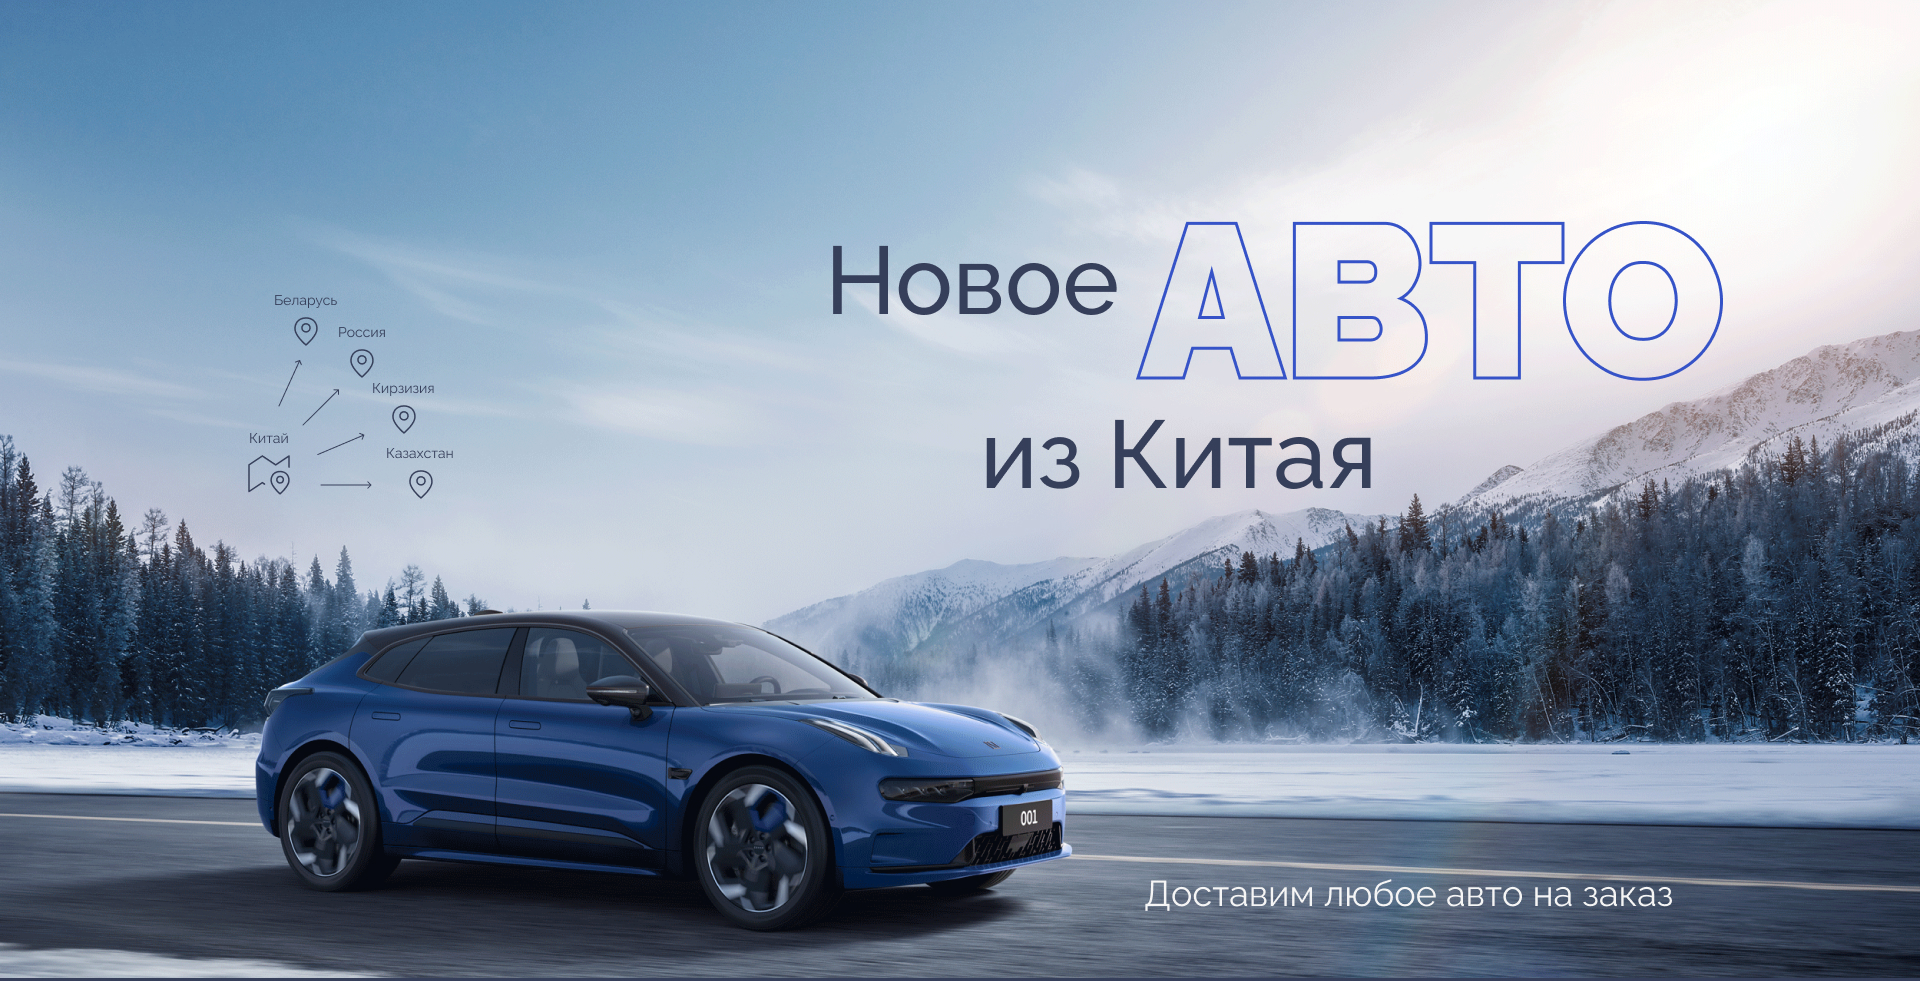
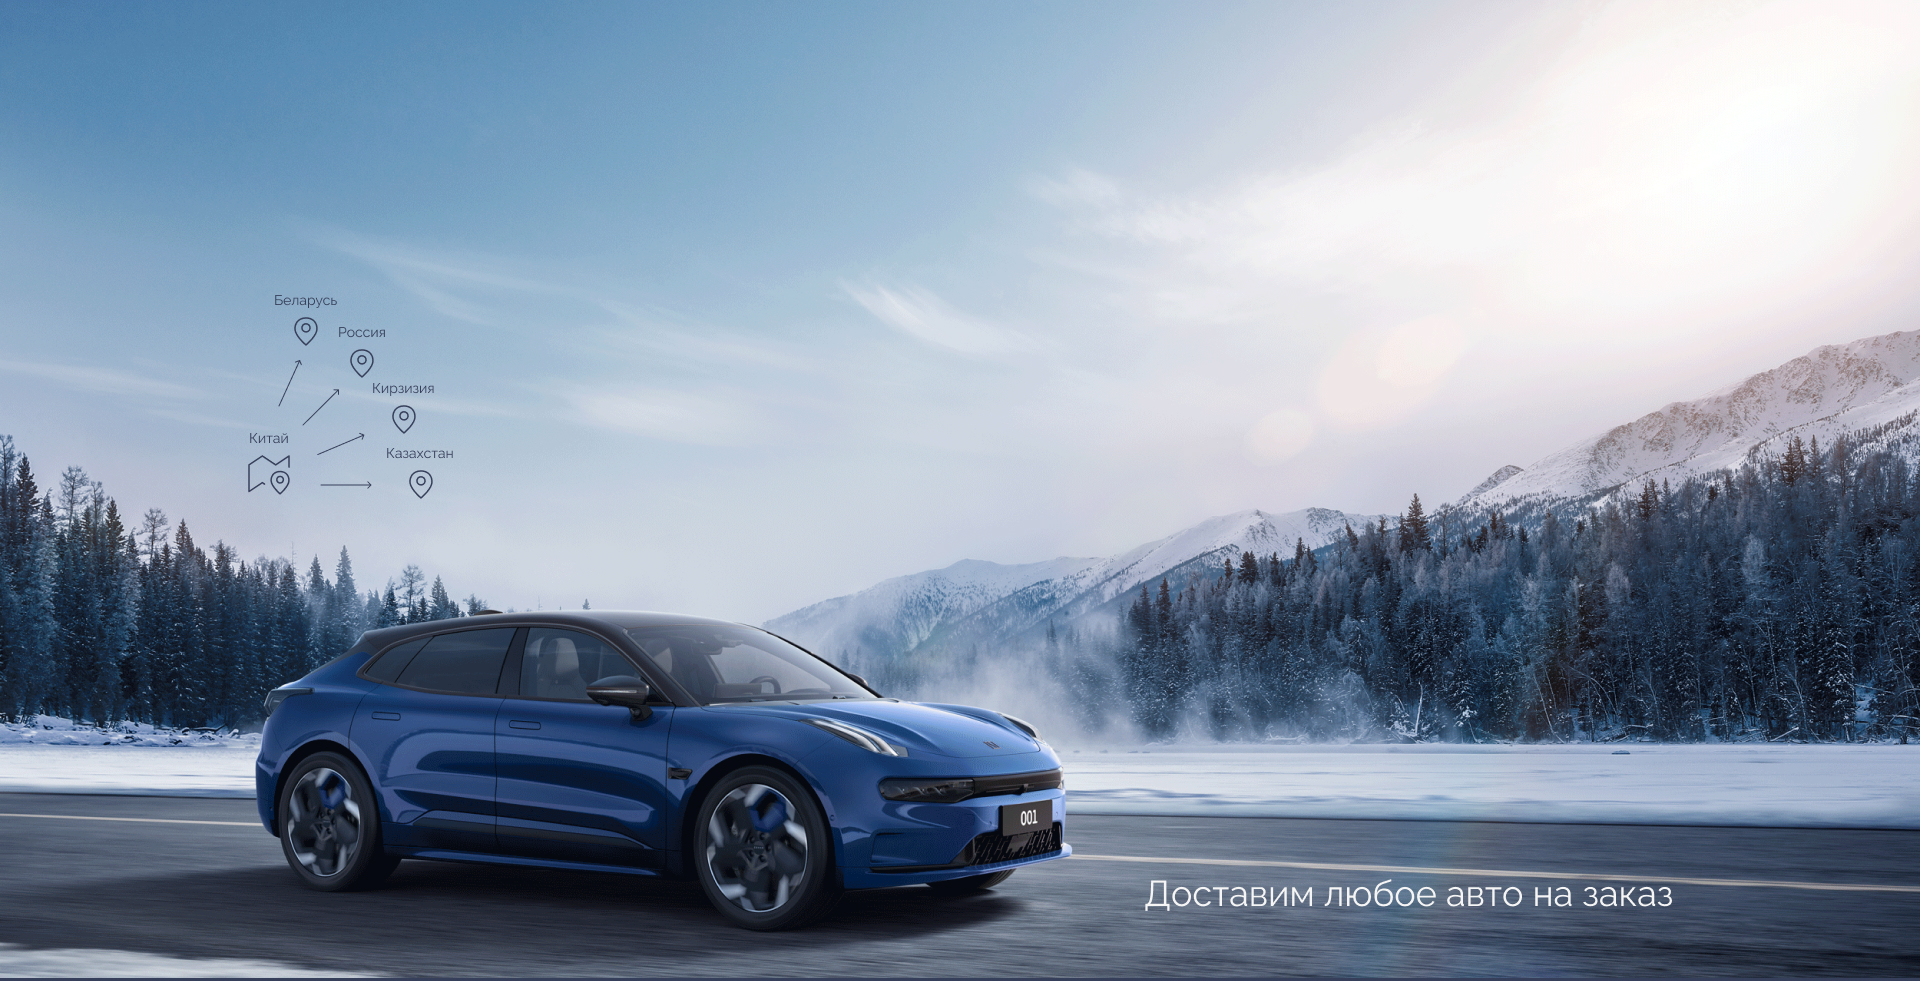
Add files via upload

diff --git a/style.css b/style.css
@@ -197,6 +197,48 @@ Global
 
 
 
+/* Заголовок */
+.alem-header_title {
+ 
+ margin-top: -2.3rem; 
+  
+}
+.alem-header_title-container1{
+  display: flex;
+  justify-content: flex-end;
+  align-items: center;
+  
+}
+.alem-header_title-container2 {
+  display: flex;
+  justify-content: center;
+  padding-left: 50%;
+  margin-top: -1.6rem; 
+
+
+}
+.alem-header_title1 {
+  font-size: 6rem;
+  color: #363F5A;
+  font-weight: 500;
+  display: flex;
+  display: inline-block;
+  padding-right: 2rem;
+}
+.alem-header_title1:last-child {
+  padding-right: 0rem;
+}
+.alem-header_title2 {
+  font-size: 18rem;
+  font-weight: 900;
+  -webkit-text-stroke: 0.2rem #3653C7;
+  -webkit-text-fill-color: transparent;
+  display: inline-block;
+}
+
+
+
+
 
   /* Main */
   .alem-main {
@@ -640,4 +682,121 @@ Global
 }
 
 
+
+@media (max-width: 830px) {
+  /* Заголовок */
+  .alem-header_title {
+  
+    margin-top: -1.3rem; 
+    
+  }
+  .alem-header_title-container1{
+    display: flex;
+    justify-content: flex-end;
+    align-items: center;
+    
+  }
+  .alem-header_title-container2 {
+    display: flex;
+    justify-content: center;
+    padding-left: 50%;
+    margin-top: -1.6rem; 
+  
+  
+  }
+  .alem-header_title1 {
+    font-size: 3rem;
+    color: #363F5A;
+    font-weight: 500;
+    display: flex;
+    display: inline-block;
+    padding-right: 2rem;
+  }
+  .alem-header_title1:last-child {
+    padding-right: 0rem;
+  }
+  .alem-header_title2 {
+    font-size: 10rem;
+    font-weight: 900;
+    -webkit-text-stroke: 0.2rem #3653C7;
+    -webkit-text-fill-color: transparent;
+    display: inline-block;
+  }
+}  
+
+@media (max-width: 500px) {
+  /* Заголовок */
+  .alem-header_title {
+  
+    margin-top: -1.3rem; 
+    
+  }
+  .alem-header_title-container1{
+    display: flex;
+    justify-content: center;
+    align-items: center;
+    
+  }
+  .alem-header_title-container2 {
+    display: flex;
+    justify-content: center;
+    padding-left: 50%;
+    margin-top: -1.6rem; 
+  
+  
+  }
+  .alem-header_title1 {
+    font-size: 1.5rem;
+    color: #363F5A;
+    font-weight: 500;
+    display: flex;
+    display: inline-block;
+    padding-right: 1rem;
+  }
+  .alem-header_title1:last-child {
+    padding-right: 0rem;
+  }
+  .alem-header_title2 {
+    font-size: 4rem;
+    font-weight: 900;
+    -webkit-text-stroke: 0.2rem #3653C7;
+    -webkit-text-fill-color: transparent;
+    display: inline-block;
+  }
+
+  .about_content  {
+    margin-top: 0rem;
+    margin-bottom: 4rem;
+    display: flex;
+    align-items: start;
+    justify-content: center;
+  }
+  .about_content-item {
+    display: flex;
+    justify-content: center;
+    align-items: start;
+  }
+
+  .about_content-item {
+    margin-top: 2rem;
+    margin-bottom: 2rem;
+  }
+  .about_content-icon {
+    height: 100%;
+    max-height: 3rem;
+    width: 3rem;
+    margin-right: 3rem;
+    display: flex;
+    align-items: start;
+    justify-content: center;
+  }
+  .about_content-icon-img {
+    max-width: 5rem;
+    height: auto;
+  }
+
+}
+
+
+ 
 

diff --git a/index.html b/index.html
@@ -53,7 +53,17 @@
                         </ul>
                     </nav>
 
-                </div>    
+                </div>   
+                
+                <section class="alem-header_title">
+                    <div class="alem-header_title-container1">
+                        <p class="alem-header_title1">Новое</p>
+                        <p class="alem-header_title2">АВТО</p>
+                    </div>
+                    <div class="alem-header_title-container2">
+                        <p class="alem-header_title1">из Китая</p>
+                    </div>
+                </section>
         </div>
     </header>
 
